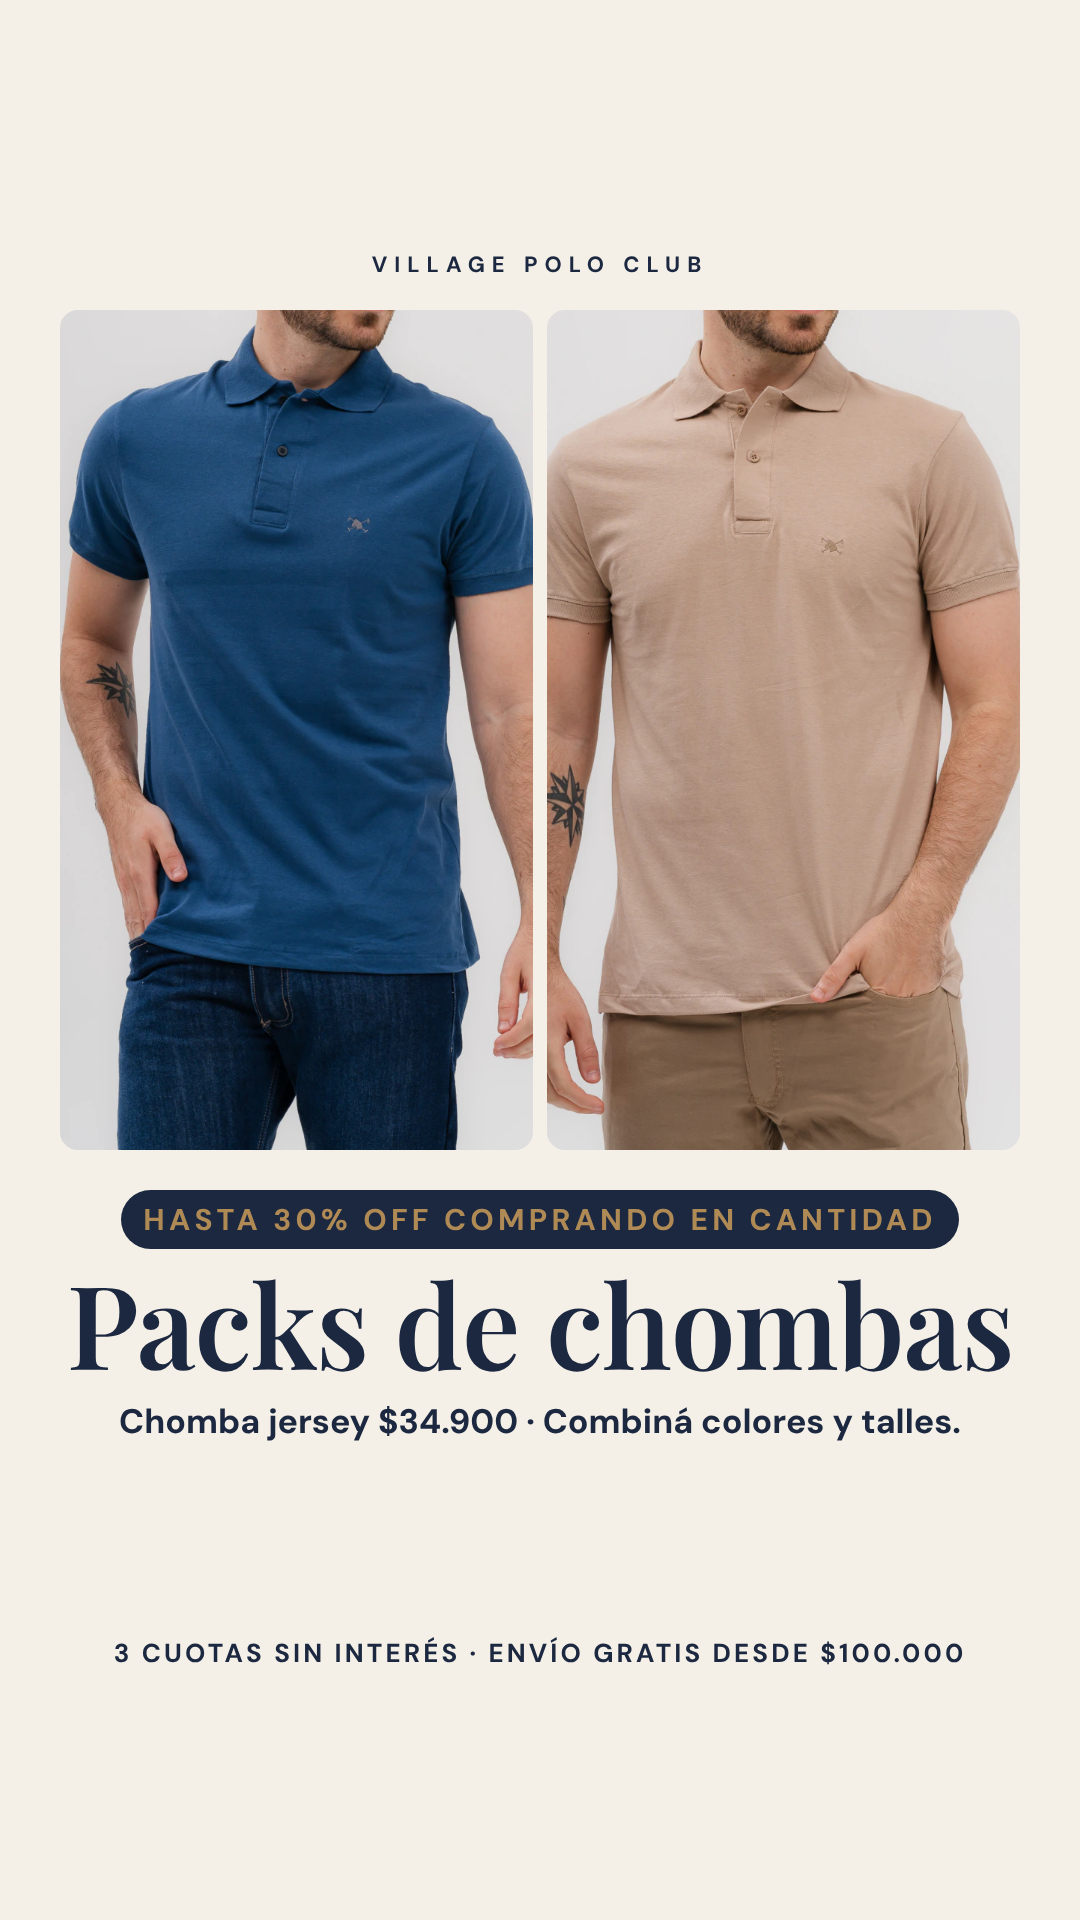
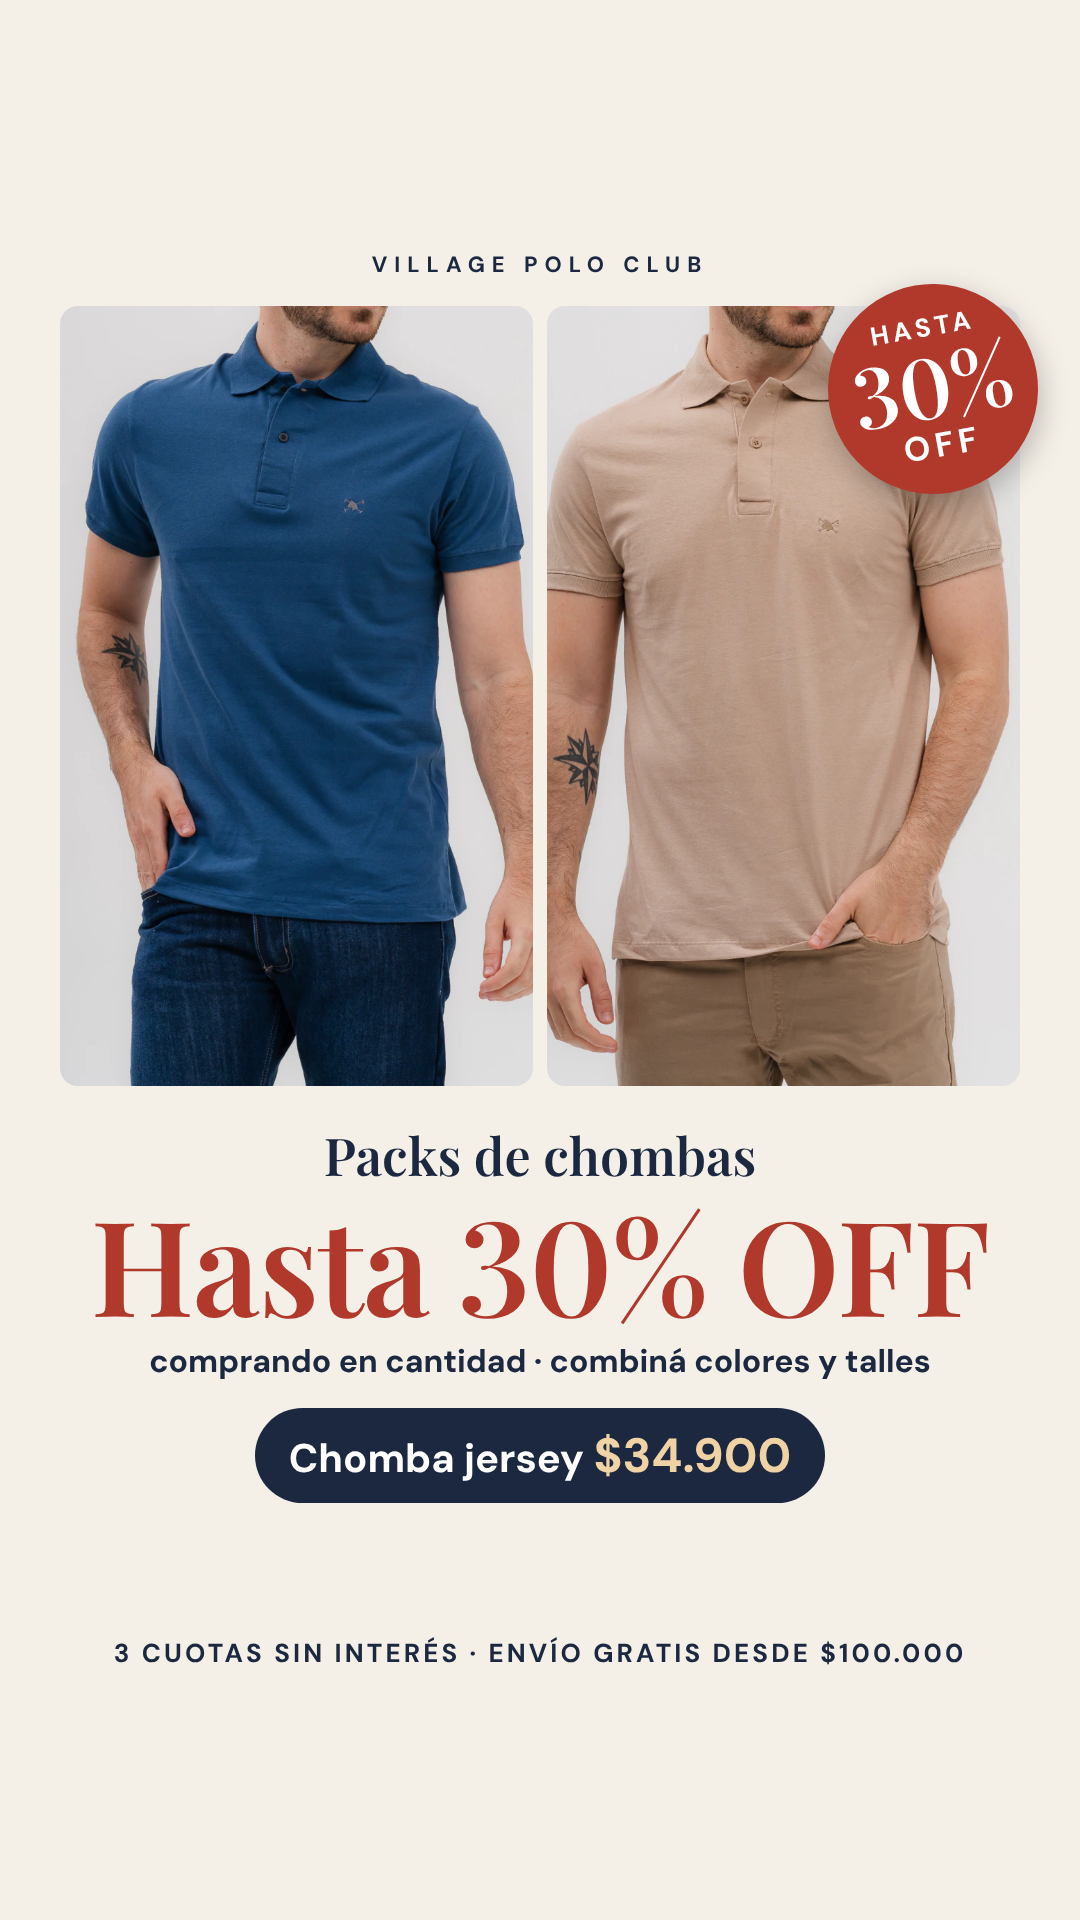
Village: Packs de chombas con descuento y precio destacados
Claude-Session: https://claude.ai/code/session_01BwB1NJ45564dBMrvfqcTE9

Changed region(s): [[0.0306, 0.125, 0.9778, 0.7812], [0.1222, 0.1562, 0.3667, 0.2812], [0.3056, 0.25, 0.3361, 0.2812]]

diff --git a/village-polo-club/placas/testeo-24-11/fuente/gen.py b/village-polo-club/placas/testeo-24-11/fuente/gen.py
@@ -88,6 +88,34 @@ def grid(fmt,imgs,eyebrow,h,sub,crops):
     extra=f'''.box{{border-radius:18px;overflow:hidden}}.ey{{font-size:30px;letter-spacing:.14em;background:#1c2840;color:#fff;display:inline-block;padding:10px 22px;border-radius:40px;font-weight:700;color:{GOLD};text-transform:uppercase;margin-bottom:14px}}
 .sub{{font-size:34px;font-weight:700;margin-top:18px;color:{NAVY}}}'''
     return page(W,H,body,extra)
+
+def p1(fmt):
+    W,H=(1080,1350) if fmt=='feed' else (1080,1920)
+    story=fmt!='feed'
+    top=70 if not story else 250
+    gh=600 if not story else 780
+    crop='inset(27% 5% 0 5%)'
+    body=f"""<div style="position:absolute;top:{top}px;left:0;right:0" class="brand">VILLAGE POLO CLUB</div>
+<div style="position:absolute;top:{top+56}px;left:60px;right:60px;height:{gh}px;display:grid;grid-template-columns:1fr 1fr;gap:14px">
+ <div class="box"><img class="ph" src="chomba-jersey-azul-1.webp" style="object-view-box:{crop}"></div>
+ <div class="box"><img class="ph" src="chomba-jersey-beige-1.webp" style="object-view-box:{crop}"></div>
+ <div class="badge"><span class="b1">HASTA</span><span class="b2">30%</span><span class="b3">OFF</span></div>
+</div>
+<div style="position:absolute;top:{top+56+gh+34}px;left:60px;right:60px;text-align:center">
+ <div class="ey2">Packs de chombas</div>
+ <h1 style="font-size:132px;color:#b0392b;white-space:nowrap">Hasta 30% OFF</h1>
+ <div class="sub2">comprando en cantidad · combiná colores y talles</div>
+ <div class="price">Chomba jersey <b>$34.900</b></div>
+</div>
+<div style="position:absolute;bottom:{top}px;left:0;right:0" class="ben">{BEN}</div>"""
+    extra=""".box{border-radius:18px;overflow:hidden}
+.badge{position:absolute;right:-18px;top:-22px;width:210px;height:210px;border-radius:50%;background:#b0392b;color:#fff;display:flex;flex-direction:column;align-items:center;justify-content:center;transform:rotate(-10deg);box-shadow:0 10px 30px rgba(0,0,0,.25)}
+.b1{font-size:26px;font-weight:700;letter-spacing:.16em}.b2{font-family:'PF';font-weight:600;font-size:84px;line-height:.95}.b3{font-size:34px;font-weight:700;letter-spacing:.14em}
+.ey2{font-family:'PF';font-weight:600;font-size:52px;color:#1c2840;margin-bottom:6px}
+.sub2{font-size:32px;font-weight:700;color:#1c2840;margin-top:10px}
+.price{display:inline-block;margin-top:26px;background:#1c2840;color:#fff;font-size:40px;font-weight:700;padding:16px 34px;border-radius:60px}.price b{color:#f0d3a5;font-size:48px}"""
+    return page(W,H,body,extra)
+
 C1='inset(22% 6% 0 6%)'
 P=[]
 for f in ('feed','story'):
@@ -98,5 +126,6 @@ for f in ('feed','story'):
     P+=[(f'R2b-asado-{f}',r2(f,'qué ponerme para un asado con amigos','chomba-jersey-azul-1.webp','Chomba jersey','inset(22% 6% 0 6%)','bermuda-gabardina-cintura-elastica-camel-1.webp','Bermuda de gabardina','inset(0 0 0 0)')),
         (f'R2d-regalo-viejo-{f}',r2(f,'regalo para mi viejo que realmente use','camisa-manga-corta-lino-algodon-celeste-cloque-1.webp','Camisa de lino manga corta','inset(20% 6% 0 6%)','chomba-pique-azul-marino-2.webp','Chomba piqué','inset(27% 6% 0 6%)')),
         (f'R2f-fin-de-ano-{f}',r2(f,'qué ponerme para la cena de fin de año','camisa-lino-algodon-blanco-1.webp','Camisa de lino','inset(22% 6% 0 6%)','pantalon-chino-lino-camel-claro-1.webp','Chino de lino','inset(0 0 0 0)'))]
+P=[x for x in P if not x[0].startswith('P1-')]+[(f'P1-packs-chombas-{f}',p1(f)) for f in ('feed','story')]
 for n,h in P: open(n+'.html','w').write(h)
 print(len(P))
